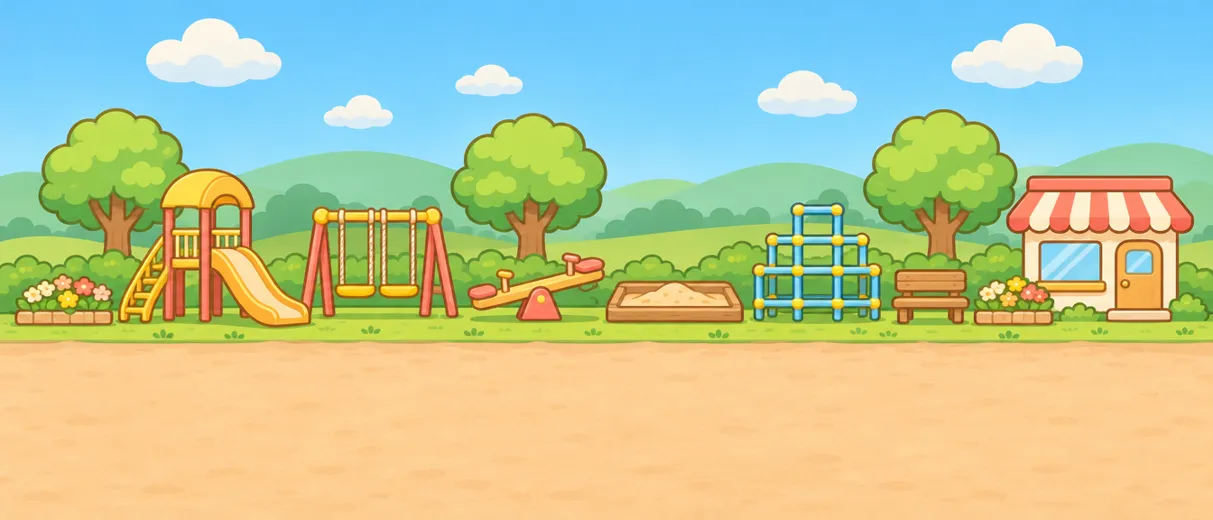
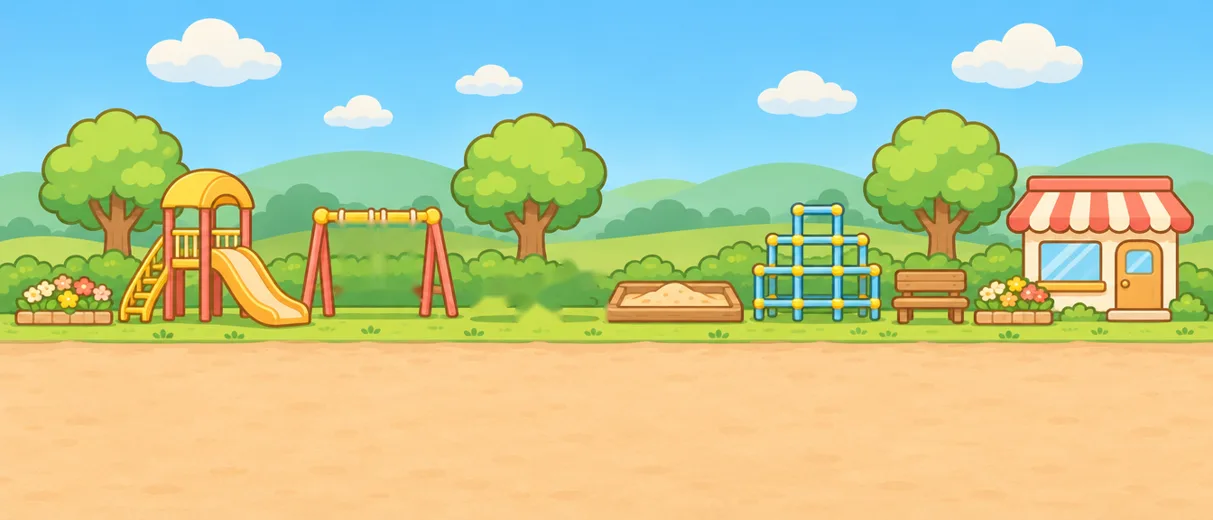
친목회: 화살표 이동·때리기·움직이는 그네와 시소·쫓아와 때리는 동물·겹치지 않는 동선·받은 것 바로 착용 / 마작: 속도 비례 가산점과 오답 감점
- ◀ ▶ 로 걷고 화면이 따라옴, 👊 로 앞의 동물을 때리면 친밀도 -6
- 그네·시소를 배경 위에 따로 그려 타는 동물과 함께 움직임, 놀이기구로 갈 때 높이·크기를 부드럽게 바꿈
- 사이 나쁜(-30 이하) 동물이 7초 동안 쫓아와 때리고 맞을 때마다 3~6코인이 나감
- 동물마다 줄을 나누고 앞이 막히면 멈춰서 동선이 겹치지 않게 함
- 받거나 산 액세서리·옷은 바로 착용되고 가방에서 갈아입을 수 있음
- 마작: 남은 시간에 비례해 최대 +10점, 틀린 짝은 -3점

Claude-Session: https://claude.ai/code/session_015t7mwg1NEPVKJN39Z7Zz4S

Changed region(s): [[0.2745, 0.4, 0.5185, 0.6462]]

diff --git a/js/social.js b/js/social.js
@@ -1,5 +1,5 @@
 // 동물 친목회 — 놀이터에서 동물 30마리와 말하고, 선물하고, 거래한다. 친밀도와 기억은 사람마다 따로다
-import { h, toast, modal, gameFx } from './ui.js';
+import { h, toast, modal, gameFx, holdBtn } from './ui.js';
 import { capy } from './capy.js';
 import { ANIMALS, animalSvg } from './animals.js';
 import { TOPS, BOTTOMS, HATS, nameOf } from './clothes.js';
@@ -63,49 +63,115 @@ async function askAI(room, body) {
 }
 
 export function mount(el, ctx) {
-  let alive = true, mine = {}, theirs = {}, bag = {}, scroller, meEl, lastX = 0, walkT = 0;
+  let alive = true, mine = {}, theirs = {}, bag = {}, scroller, meEl, mePop;
   const pid = () => ctx.partnerId, A = i => (mine[i] && mine[i].a) || 0;
-  const H = Math.round(Math.min(innerHeight * 0.62, 470)), TILE = Math.round(H * 1213 / 520), TILES = 3, WIDTH = TILE * TILES;
-  // 놀이기구 자리: [종류, 그림 속 가로 위치(0~1), 바닥에서 높이(0~1)]
-  const SPOT_DEFS = [['slide', 0.243, 0.385], ['swing', 0.292, 0.4], ['swing', 0.327, 0.4], ['seeL', 0.405, 0.42], ['seeR', 0.478, 0.46], ['sand', 0.555, 0.41], ['gym', 0.675, 0.4], ['bench', 0.768, 0.435]];
-  const spots = []; for (let k = 0; k < TILES; k++) SPOT_DEFS.forEach(([type, fx, fb]) => spots.push({ type, x: (k + (k % 2 ? 1 - fx : fx)) * TILE, b: fb, dir: k % 2 ? -1 : 1, by: -1 }));
+  const H = Math.round(Math.min(innerHeight * 0.52, 470)), TILE = Math.round(H * 1213 / 520), TILES = 3, WIDTH = TILE * TILES, IW = 1344, IH = 576;
+  // 놀이기구 자리: [종류, 그림 속 가로 위치(0~1), 바닥에서 높이(0~1), 그네 번호]
+  const SPOT_DEFS = [['slide', 0.243, 0.385], ['swing', 0.2943, 0.43, 0], ['swing', 0.3286, 0.43, 1], ['seeL', 0.3964, 0.45], ['seeR', 0.4947, 0.45], ['sand', 0.555, 0.41], ['gym', 0.675, 0.4], ['bench', 0.768, 0.435]];
+  const SEE_X = 598.8 / IW, ROPE = (323 - 243) / IH * H;
+  const LANES = [[0.07, 1], [0.13, 0.94], [0.19, 0.88], [0.25, 0.82]], RIDE_S = 0.62, ME_SP = 150, CHASE_SP = 118;
+  const tiles = [], spots = [];
   const moodOf = v => (v <= -30 ? 'mad' : v < 0 ? 'angry' : '');
-  let actors = [], held = -1, raf = 0, lastT = 0;
+  let actors = [], held = -1, raf = 0, lastT = 0, punchAt = 0;
+  const me = { x: 200, f: 1 }, keys = new Set();
+  // 움직이는 놀이기구(그네 두 개, 시소)를 배경 위에 그린다
+  const EQ = `<svg class="so-eq" viewBox="0 0 ${IW} ${IH}" preserveAspectRatio="none">${[395.5, 441.6].map(x => `<g class="eq-sw"><path d="M${x - 16} 243V319M${x + 16} 243V319" stroke="#A8743C" stroke-width="5.5" stroke-linecap="round"/><path d="M${x - 16} 243V319M${x + 16} 243V319" stroke="#F3E3C3" stroke-width="2.6" stroke-dasharray="3 3"/><rect x="${x - 23}" y="316" width="46" height="13" rx="6.5" fill="#FFD21F" stroke="#B5651D" stroke-width="2.2"/></g>`).join('')}
+    <g class="eq-see"><rect x="523" y="315" width="152" height="11" rx="5.5" fill="#F8C24A" stroke="#B5651D" stroke-width="2.2"/><rect x="520" y="308" width="34" height="11" rx="5.5" fill="#F47C72" stroke="#B5473C" stroke-width="2"/><rect x="644" y="308" width="34" height="11" rx="5.5" fill="#F47C72" stroke="#B5473C" stroke-width="2"/><path d="M560 315V298M638 315V298" stroke="#EFC27A" stroke-width="5" stroke-linecap="round"/><rect x="551" y="293" width="18" height="8" rx="4" fill="#FFD21F" stroke="#B5651D" stroke-width="1.8"/><rect x="629" y="293" width="18" height="8" rx="4" fill="#F47C72" stroke="#B5473C" stroke-width="1.8"/></g>
+    <path d="M573 357 L594 324 q5 -6 10 0 L625 357z" fill="#F0625A" stroke="#B5473C" stroke-width="2.4" stroke-linejoin="round"/><circle cx="599" cy="339" r="4.5" fill="#FFD21F"/></svg>`;
   const setRel = (i, patch) => { mine = { ...mine, [i]: { ...(mine[i] || {}), ...patch } }; return ctx.store.update(`social/${ctx.uid}/${i}`, patch).catch(() => {}); };
   const pinOf = u => (ctx.members[u] || {}).pin;
+  // 받은 액세서리 달기, 산 옷 입기(다시 누르면 벗는다). 내 카피바라에 바로 보인다
+  const SLOT = { t: 'top', b: 'bottom', h: 'hat' };
+  async function wearPin(i) { await ctx.store.update('members/' + ctx.uid, { pin: i }).catch(() => {}); ctx.members[ctx.uid] = { ...(ctx.members[ctx.uid] || {}), pin: i }; scores(); }
+  const wearing = id => (ctx.dress[ctx.uid] || {})[SLOT[id[0]]] === id;
+  async function wearCloth(id, on = true) { const d = ctx.dress[ctx.uid] || {}, nx = { top: d.top || '', bottom: d.bottom || '', hat: d.hat || '', by: ctx.uid, ts: ctx.store.now() }; nx[SLOT[id[0]]] = on ? id : '';
+    ctx.dress[ctx.uid] = nx; await ctx.store.set('dress/' + ctx.uid, nx).catch(() => {}); scores(); }
 
   function scene() {
     const top = h('div', { class: 'so-top' }, h('span', { class: 'coin-chip', 'data-coins': 1 }, won(ctx.coins())), h('span', { class: 'so-sp' }),
       h('button', { class: 'btn sm', onClick: openBag }, '🎒 가방'), h('button', { class: 'btn sm', onClick: openShop }, '🏪 카피수퍼'));
     scroller = h('div', { class: 'so-scroll' });
-    const world = h('div', { class: 'so-world', style: { width: WIDTH + 'px', height: H + 'px', '--sx': Math.round(-0.05 * TILE) + 'px', '--sy': Math.round(-0.115 * H) + 'px', '--gy': Math.round(-0.13 * H) + 'px', '--pv': Math.round(-0.07 * H) + 'px' } },
-      ...Array.from({ length: TILES }, (_, k) => h('i', { class: 'so-bg' + (k % 2 ? ' flip' : ''), style: { left: k * TILE + 'px', width: TILE + 1 + 'px' } })));
-    actors = ANIMALS.map((a, i) => { const x = 60 + (i + 0.5) * (WIDTH - 120) / ANIMALS.length;
-      const e = h('button', { class: 'so-an' + (i % 2 ? ' back' : ''), 'data-i': i, style: { left: x + 'px' }, onClick: () => openAnimal(i) }, h('span', { class: 'so-score' }), h('span', { class: 'so-hearts' }), h('span', { class: 'so-body', html: animalSvg(i, true) }), h('small', null, a.name));
-      world.append(e); return { e, x, st: 'idle', until: performance.now() + 400 + Math.random() * 3500, tx: x, spot: null, sp: 24 + Math.random() * 16 }; });
-    meEl = h('div', { class: 'so-me', html: capy(ctx.capyOf(ctx.uid, { face: 'happy' })) }); world.append(meEl);
+    const world = h('div', { class: 'so-world', style: { width: WIDTH + 'px', height: H + 'px', '--sx': Math.round(-0.05 * TILE) + 'px', '--sy': Math.round(-0.115 * H) + 'px', '--gy': Math.round(-0.13 * H) + 'px' } });
+    for (let k = 0; k < TILES; k++) { const flip = k % 2 === 1, bg = h('i', { class: 'so-bg' + (flip ? ' flip' : ''), style: { left: k * TILE + 'px', width: TILE + 1 + 'px' }, html: EQ }); world.append(bg);
+      const fx = f => (k + (flip ? 1 - f : f)) * TILE, t = { dir: flip ? -1 : 1, sw: [...bg.querySelectorAll('.eq-sw')].map((g, n) => ({ g, cx: [395.5, 441.6][n], a: 3, cur: 0, ph: n * 1.4 + k, on: 0 })), see: { g: bg.querySelector('.eq-see'), cur: -11, x: fx(SEE_X), on: 0 } };
+      tiles.push(t); SPOT_DEFS.forEach(([type, f, b, n]) => spots.push({ type, x: fx(f), b, dir: t.dir, by: -1, eq: type === 'swing' ? t.sw[n] : type[0] === 's' && type[1] === 'e' ? t.see : null, t })); }
+    actors = ANIMALS.map((a, i) => { const lane = i % LANES.length, x = 90 + (i + 0.5) * (WIDTH - 180) / ANIMALS.length;
+      const e = h('button', { class: 'so-an', 'data-i': i, style: { left: x + 'px', zIndex: 10 - lane }, onClick: () => openAnimal(i) }, h('span', { class: 'so-score' }), h('span', { class: 'so-hearts' }), h('span', { class: 'so-body', html: animalSvg(i, true) }), h('small', null, a.name));
+      world.append(e); return { e, body: e.querySelector('.so-body'), x, lane, y: LANES[lane][0], s: LANES[lane][1], st: 'idle', until: performance.now() + 400 + Math.random() * 3500, tx: x, spot: null, sp: 24 + Math.random() * 16, cool: 0, nextHit: 0, wait: 0 }; });
+    meEl = h('div', { class: 'so-me', html: capy(ctx.capyOf(ctx.uid, { face: 'happy' })) }); mePop = h('div', { class: 'so-mepop' }); world.append(meEl, mePop);
     scroller.append(world);
-    scroller.addEventListener('scroll', () => { const x = scroller.scrollLeft + scroller.clientWidth / 2; meEl.style.left = x + 'px'; meEl.classList.toggle('left', x < lastX); meEl.classList.add('walk'); lastX = x; clearTimeout(walkT); walkT = setTimeout(() => meEl.classList.remove('walk'), 160); }, { passive: true });
-    el.replaceChildren(top, scroller, h('p', { class: 'dim center' }, '옆으로 밀어서 놀이터를 돌아다녀요. 돌아다니는 동물을 누르면 멈춰서 말을 걸 수 있어요.'));
-    requestAnimationFrame(() => { meEl.style.left = scroller.clientWidth / 2 + 'px'; }); scores(); lastT = performance.now(); raf = requestAnimationFrame(step);
+    const pad = h('div', { class: 'so-pad' }, ...[['L', '◀'], ['R', '▶']].map(([k, t]) => { const b = h('button', { class: 'dp so-dp', 'aria-label': k }, t); holdBtn(b, () => keys.add(k), () => keys.delete(k)); return b; }),
+      h('span', { class: 'so-sp' }), h('button', { class: 'dp so-dp so-hit', onClick: punch }, '👊', h('small', null, '때리기')));
+    el.replaceChildren(top, scroller, pad, h('p', { class: 'dim center so-hint' }, '◀ ▶ 로 걸어가요. 동물을 누르면 멈춰서 말을 걸 수 있어요. 사이가 나쁜 동물 근처는 조심!'));
+    scores(); lastT = performance.now(); raf = requestAnimationFrame(step);
+  }
+  const KEY = { ArrowLeft: 'L', ArrowRight: 'R', a: 'L', d: 'R' };
+  const kd = e => { if (document.querySelector('.modal-wrap')) return; if (KEY[e.key]) { keys.add(KEY[e.key]); e.preventDefault(); } else if (e.key === ' ' && !e.repeat) { e.preventDefault(); punch(); } };
+  const ku = e => { if (KEY[e.key]) keys.delete(KEY[e.key]); };
+  window.addEventListener('keydown', kd); window.addEventListener('keyup', ku);
+  const pop = (parent, text, cls = '') => { const f = h('em', { class: 'so-pop ' + cls }, text); parent.append(f); setTimeout(() => f.remove(), 1000); };
+
+  // 때리기: 앞에 있는 가까운 동물을 친다. 맞은 동물은 밀려나고 친밀도가 떨어지며, 그 일을 기억한다
+  function punch() {
+    const now = performance.now(); if (now - punchAt < 600 || document.querySelector('.modal-wrap')) return; punchAt = now;
+    meEl.classList.remove('punch'); void meEl.offsetWidth; meEl.classList.add('punch'); sfx('swing');
+    let best = -1, bd = 92; actors.forEach((o, i) => { const dx = o.x - me.x, d = Math.abs(dx) + (dx * me.f < 0 ? 20 : 0); if (d < bd) { bd = d; best = i; } });
+    if (best < 0) return; const o = actors[best], dir = o.x >= me.x ? 1 : -1; me.f = dir;
+    sfx('hit'); pop(o.e, '퍽!'); leave(o); o.st = 'stun'; o.until = now + 900; o.kb = dir * 46; o.e.classList.remove('walk'); o.e.classList.add('ouch'); setTimeout(() => o.e.classList.remove('ouch'), 500);
+    const rel = mine[best] || {}, mem = Array.isArray(rel.mem) ? rel.mem : Object.values(rel.mem || {}), v = Math.max(-100, A(best) - 6);
+    setRel(best, { a: v, mem: [...mem.slice(-5), { s: '(말없이 때렸다)', r: '아야! 왜 때려!', d: -6, t: ctx.store.now() }] }); o.cool = 0; scores();
+    setTimeout(() => alive && pop(o.e, v <= ROB_AT ? '가만 안 둬!' : '아야!', 'say'), 250);
+  }
+  // 사이가 나쁜 동물에게 맞으면 돈이 조금 나간다
+  function gotHit(o, now) {
+    o.nextHit = now + 900; sfx('hit'); pop(mePop, '퍽!'); meEl.classList.remove('ouch'); void meEl.offsetWidth; meEl.classList.add('ouch');
+    const n = Math.min(ctx.coins(), 3 + Math.floor(Math.random() * 4)); if (n <= 0) return;
+    ctx.store.tx('money/' + ctx.uid, c => ({ ...(c || {}), c: Math.max(0, ((c && c.c) || 0) - n) })).catch(() => {}); setTimeout(() => alive && pop(mePop, `-${n}🪙`, 'lose'), 200);
   }
   // 동물들이 걸어 다니다가 가까운 놀이기구가 비면 가서 탄다. 말을 걸고 있는 동물(held)은 그 자리에 멈춘다
-  function leave(o) { if (!o.spot) return; o.e.className = o.e.className.replace(/ ride r-\w+/g, '').replace(' rev', ''); o.e.style.bottom = ''; o.spot.by = -1; o.spot = null; }
-  function decide(o, i, now) {
+  function leave(o) { if (!o.spot) return; o.e.className = o.e.className.replace(/ ride r-\w+/g, '').replace(' rev', ''); if (o.spot.eq) o.spot.eq.on = Math.max(0, o.spot.eq.on - (o.st === 'ride' ? 1 : 0)); o.body.style.transform = ''; o.spot.by = -1; o.spot = null; }
+  const crowded = (o, x) => actors.some(q => q !== o && q.lane === o.lane && q.st !== 'ride' && (Math.abs(q.x - x) < 64 || Math.abs(q.tx - x) < 64));
+  function decide(o, i) {
     const free = Math.random() < 0.25 ? spots.filter(s => s.by < 0 && Math.abs(s.x - o.x) < 520) : [];
-    if (free.length) { const s = pick(free); s.by = i; o.spot = s; o.tx = s.x; } else o.tx = Math.max(50, Math.min(WIDTH - 50, o.x + (Math.random() * 2 - 1) * 240));
-    o.st = 'walk'; o.e.classList.add('walk'); o.e.classList.toggle('left', o.tx < o.x);
+    if (free.length) { const s = pick(free); s.by = i; o.spot = s; o.tx = s.x; }
+    else { let tx = o.x; for (let n = 0; n < 8; n++) { tx = Math.max(60, Math.min(WIDTH - 60, o.x + (Math.random() * 2 - 1) * 260)); if (!crowded(o, tx)) break; tx = o.x; } o.tx = tx; if (tx === o.x) { o.until = performance.now() + 800; return; } }
+    o.st = 'walk'; o.wait = 0; o.e.classList.add('walk'); o.e.classList.toggle('left', o.tx < o.x);
   }
   function step(now) {
-    if (!alive) return; const dt = Math.min(0.1, (now - lastT) / 1000); lastT = now;
-    actors.forEach((o, i) => { if (i === held) return;
-      if (o.st === 'walk') { const d = o.tx - o.x, mv = o.sp * dt;
-        if (Math.abs(d) <= mv) { o.x = o.tx; o.e.classList.remove('walk', 'left');
-          if (o.spot) { o.st = 'ride'; o.until = now + 9000 + Math.random() * 7000; o.e.className += ' ride r-' + o.spot.type + (o.spot.dir < 0 ? ' rev' : ''); o.e.style.bottom = o.spot.b * 100 + '%'; }
-          else { o.st = 'idle'; o.until = now + 900 + Math.random() * 3600; } }
-        else o.x += Math.sign(d) * mv;
-        o.e.style.left = o.x + 'px'; }
-      else if (now > o.until) { if (o.st === 'ride') { leave(o); o.st = 'idle'; o.until = now + 700; } else decide(o, i, now); } });
+    if (!alive) return; const dt = Math.min(0.1, (now - lastT) / 1000), t = now / 1000, paused = !!document.querySelector('.modal-wrap'); lastT = now;
+    // 나: 화살표로 걷고, 화면이 따라온다
+    const mv = paused ? 0 : (keys.has('R') ? 1 : 0) - (keys.has('L') ? 1 : 0);
+    if (mv) { me.f = mv; me.x = Math.max(40, Math.min(WIDTH - 40, me.x + mv * ME_SP * dt)); }
+    meEl.classList.toggle('walk', !!mv); meEl.classList.toggle('left', me.f < 0); meEl.style.left = mePop.style.left = me.x + 'px';
+    scroller.scrollLeft = Math.max(0, Math.min(WIDTH - scroller.clientWidth, me.x - scroller.clientWidth / 2));
+    // 놀이기구: 누가 타면 크게, 아니면 살짝 흔들린다
+    tiles.forEach(T => { T.sw.forEach(w => { w.a += ((w.on ? 17 : 3) - w.a) * Math.min(1, dt * 2); w.cur = w.a * Math.sin(t * 2.3 + w.ph); w.g.setAttribute('transform', `rotate(${w.cur.toFixed(2)} ${w.cx} 243)`); });
+      const S = T.see; S.cur += ((S.on ? 11 * Math.sin(t * 2.6) : -11) - S.cur) * Math.min(1, dt * 6); S.g.setAttribute('transform', `rotate(${S.cur.toFixed(2)} 598.8 320)`); });
+    actors.forEach((o, i) => {
+      const lane = LANES[o.lane]; let ty = lane[0], ts = lane[1];
+      if (i === held) { /* 붙잡혀서 얘기하는 중 */ }
+      else if (o.st === 'stun') { if (o.kb) { const k = o.kb * Math.min(1, dt * 8); o.x = Math.max(40, Math.min(WIDTH - 40, o.x + k)); o.kb -= k; } if (now > o.until) { o.st = 'idle'; o.until = now + 300; o.kb = 0; } }
+      else if (o.st === 'chase') { ty = 0.02; ts = 1; if (paused) o.until += dt * 1000; const d = me.x - o.x;
+        if (Math.abs(d) > 34) { o.x += Math.sign(d) * CHASE_SP * dt; o.e.classList.toggle('left', d < 0); } else if (now > o.nextHit && !paused) gotHit(o, now);
+        if (now > o.until) { o.st = 'idle'; o.until = now + 600; o.cool = now + 15000; o.e.classList.remove('walk', 'chase'); } }
+      else {
+        if (!paused && A(i) <= ROB_AT && now > o.cool && Math.abs(me.x - o.x) < 170) { leave(o); o.st = 'chase'; o.until = now + 7000; o.nextHit = now + 300; o.e.classList.add('walk', 'chase'); pop(o.e, '거기 서!', 'say'); }
+        else if (o.st === 'walk') { const d = o.tx - o.x, step1 = o.sp * dt, dir = Math.sign(d);
+          const blocked = o.wait < 1.5 && actors.some(q => q !== o && q.lane === o.lane && q.st !== 'ride' && (q.x - o.x) * dir > 0 && (q.x - o.x) * dir < 58 && !(o.spot && Math.abs(d) < 110));
+          if (blocked) { o.wait += dt; if (!o.spot && o.wait > 0.5) { o.st = 'idle'; o.until = now + 500 + Math.random() * 1200; o.e.classList.remove('walk'); } }
+          else if (Math.abs(d) <= step1) { o.x = o.tx; o.e.classList.remove('walk', 'left');
+            if (o.spot) { o.st = 'ride'; o.until = now + 9000 + Math.random() * 7000; if (o.spot.eq) o.spot.eq.on++; o.e.className += ' ride r-' + o.spot.type + (o.spot.dir < 0 ? ' rev' : ''); }
+            else { o.st = 'idle'; o.until = now + 900 + Math.random() * 3600; } }
+          else o.x += dir * step1;
+          if (o.spot) { const k = Math.max(0, 1 - Math.abs(o.tx - o.x) / 110); ty += (o.spot.b - ty) * k; ts += (RIDE_S - ts) * k; } }
+        else if (o.st === 'ride') { ty = o.spot.b; ts = RIDE_S; const q = o.spot.eq;
+          if (q && o.spot.type === 'swing') { const ph = q.cur * o.spot.dir * Math.PI / 180; o.body.style.transform = `translate(${(-ROPE * Math.sin(ph) / ts).toFixed(1)}px, ${(ROPE * (Math.cos(ph) - 1) / ts).toFixed(1)}px) rotate(${(q.cur * o.spot.dir).toFixed(1)}deg)`; }
+          else if (q) o.body.style.transform = `translateY(${((o.x - q.x) * Math.sin(q.cur * o.spot.dir * Math.PI / 180) / ts).toFixed(1)}px)`;
+          if (now > o.until) { leave(o); o.st = 'idle'; o.until = now + 500; } }
+        else if (now > o.until) decide(o, i);
+      }
+      const k = Math.min(1, dt * 5); o.y += (ty - o.y) * k; o.s += (ts - o.s) * k;
+      o.e.style.left = o.x + 'px'; o.e.style.bottom = (o.y * 100).toFixed(2) + '%'; o.e.style.transform = `scale(${o.s.toFixed(3)})`; });
     raf = requestAnimationFrame(step);
   }
   // 동물 머리 위 친밀도: 내 점수(크게)와 상대 점수(작게). 사이가 나쁘면 찌푸리고, 좋으면 하트가 떠오른다
@@ -131,9 +197,10 @@ export function mount(el, ctx) {
       const v = A(i), rel = mine[i] || {};
       if (d) { sfx(d > 0 ? 'coin' : 'bad'); const f = h('em', { class: 'so-float ' + (d > 0 ? 'up' : 'down') }, (d > 0 ? '+' : '') + d); meter.append(f); setTimeout(() => f.remove(), 1200); }
       if (v >= PIN_AT && !rel.got) { await setRel(i, { got: true }); await ctx.store.update('bag/' + ctx.uid + '/pins', { [i]: true }).catch(() => {}); bag = { ...bag, pins: { ...(bag.pins || {}), [i]: true } };
-        setTimeout(() => { gameFx('win', `${a.name}의 ${p.pin} 받음`); say(`우리 이제 친한 친구지? 내 상징 ${p.pin} 줄게. 가방에서 달아 봐!`, 'gift'); }, 500); }
+        await wearPin(i);
+        setTimeout(() => { gameFx('win', `${a.name}의 ${p.pin} 받음`); say(`우리 이제 친한 친구지? 내 상징 ${p.pin} 줄게. 내가 달아 줬어! (가방에서 바꿀 수 있어)`, 'gift'); }, 500); }
       else if (v <= ROB_AT && d < 0 && Math.random() < 0.4) { // 사이가 나쁘면 준 액세서리를 뺏거나 돈을 뜯는다
-        if ((bag.pins || {})[i]) { await ctx.store.update('bag/' + ctx.uid + '/pins', { [i]: null }).catch(() => {}); bag = { ...bag, pins: { ...(bag.pins || {}), [i]: null } }; if (pinOf(ctx.uid) === i) ctx.store.update('members/' + ctx.uid, { pin: null }).catch(() => {}); await setRel(i, { got: null }); setTimeout(() => { sfx('hit'); say(`내가 준 ${p.pin} 도로 내놔! 너한텐 아까워!`, 'angry'); }, 600); }
+        if ((bag.pins || {})[i]) { await ctx.store.update('bag/' + ctx.uid + '/pins', { [i]: null }).catch(() => {}); bag = { ...bag, pins: { ...(bag.pins || {}), [i]: null } }; if (pinOf(ctx.uid) === i) await wearPin(null); await setRel(i, { got: null }); setTimeout(() => { sfx('hit'); say(`내가 준 ${p.pin} 도로 내놔! 너한텐 아까워!`, 'angry'); }, 600); }
         else { const take = Math.min(ctx.coins(), 20 + Math.floor(Math.random() * 41)); if (take > 0) { await ctx.spend(take); setTimeout(() => { sfx('hit'); say(`까불지 마! 가진 돈 ${take}🪙 내놔!`, 'angry'); toast(`${a.name}에게 ${take} 🪙 뜯겼어요`, 2000); }, 600); } } }
       drawMeter();
     }
@@ -161,8 +228,8 @@ export function mount(el, ctx) {
       if (v < 0) return say('너한텐 아무것도 안 팔아. 저리 가!', 'angry');
       const row = (ic, nm, sub, price, owned, fn) => h('button', { class: 'so-row', disabled: owned, onClick: fn }, h('span', null, ic), h('b', null, nm), h('small', null, owned ? '이미 갖고 있어요' : `${won(price)} · ${sub}`));
       const cl = modal({ title: `🤝 ${a.name}와 거래`, body: h('div', { class: 'so-list' },
-        row(p.pin, `${a.name}의 상징 액세서리`, v >= 10 ? '친해지면(50점) 그냥 줘요' : '아는 사이(10점)부터 팔아요', 500, hasPin, async () => { if (v < 10) return toast('아직 그 정도로 친하지 않대요'); if (!(await ctx.spend(500))) return; await ctx.store.update('bag/' + ctx.uid + '/pins', { [i]: true }).catch(() => {}); bag = { ...bag, pins: { ...(bag.pins || {}), [i]: true } }; await setRel(i, { got: true }); cl(); say(`자, ${p.pin} 여기. 잘 달고 다녀!`, 'glad'); }),
-        row('👕', `${a.name}의 옷: ${ware.name}`, disc < 1 ? `친구 할인 ${Math.round((1 - disc) * 100)}%` : '친해지면 깎아 줘요', wp, ctx.owns(ware.id), async () => { if (!(await ctx.spend(wp))) return; await ctx.store.set(`owned/${ctx.uid}/${ware.id}`, true).catch(() => {}); ctx.owned[ctx.uid] = { ...(ctx.owned[ctx.uid] || {}), [ware.id]: true }; cl(); say(`${ware.name}, 너한테 잘 어울릴 거야. 옷놀이에서 입어 봐!`, 'glad'); })), actions: [{ label: '닫기' }] });
+        row(p.pin, `${a.name}의 상징 액세서리`, v >= 10 ? '친해지면(50점) 그냥 줘요' : '아는 사이(10점)부터 팔아요', 500, hasPin, async () => { if (v < 10) return toast('아직 그 정도로 친하지 않대요'); if (!(await ctx.spend(500))) return; await ctx.store.update('bag/' + ctx.uid + '/pins', { [i]: true }).catch(() => {}); bag = { ...bag, pins: { ...(bag.pins || {}), [i]: true } }; await setRel(i, { got: true }); await wearPin(i); cl(); say(`자, ${p.pin} 여기. 내가 달아 줬어, 잘 달고 다녀!`, 'glad'); }),
+        row('👕', `${a.name}의 옷: ${ware.name}`, disc < 1 ? `친구 할인 ${Math.round((1 - disc) * 100)}%` : '친해지면 깎아 줘요', wp, ctx.owns(ware.id), async () => { if (!(await ctx.spend(wp))) return; await ctx.store.set(`owned/${ctx.uid}/${ware.id}`, true).catch(() => {}); ctx.owned[ctx.uid] = { ...(ctx.owned[ctx.uid] || {}), [ware.id]: true }; await wearCloth(ware.id); cl(); say(`${ware.name}, 입혀 줬어. 잘 어울린다! (가방이나 옷놀이에서 갈아입을 수 있어)`, 'glad'); })), actions: [{ label: '닫기' }] });
     }
     const memBtn = () => { const mem = Array.isArray((mine[i] || {}).mem) ? mine[i].mem : Object.values((mine[i] || {}).mem || {}); modal({ title: `📜 ${a.name}가 기억하는 말`, body: mem.length ? h('div', { class: 'so-mem' }, mem.slice().reverse().map(m => h('p', null, h('b', null, `나: ${m.s}`), h('span', null, `${a.name}: ${m.r}`), h('em', { class: m.d > 0 ? 'up' : m.d < 0 ? 'down' : '' }, (m.d > 0 ? '+' : '') + m.d)))) : h('p', { class: 'center' }, '아직 나눈 말이 없어요.'), actions: [{ label: '닫기', primary: true }] }); };
     input.addEventListener('keydown', e => { if (e.key === 'Enter') talk(input.value); });
@@ -181,13 +248,16 @@ export function mount(el, ctx) {
     draw(); modal({ title: '🏪 카피수퍼', body, actions: [{ label: '닫기', primary: true }] });
   }
   function openBag() {
-    const pins = Object.keys(bag.pins || {}).filter(k => bag.pins[k]).map(Number), worn = pinOf(ctx.uid), body = h('div', { class: 'so-list' });
-    const wear = async i => { await ctx.store.update('members/' + ctx.uid, { pin: i }).catch(() => {}); ctx.members[ctx.uid] = { ...(ctx.members[ctx.uid] || {}), pin: i }; toast(i == null ? '액세서리를 뺐어요' : `${ANIMALS[i].name}의 상징 ${PERSONA[i].pin} 달았어요`); cl(); scores(); };
-    body.replaceChildren(h('p', { class: 'center' }, Object.entries(GIFTS).map(([k, [ic, nm]]) => `${ic} ${nm} ${bag[k] || 0}개`).join(' · ')),
-      h('b', null, `동물에게 받은 액세서리 ${pins.length} / ${ANIMALS.length}`),
-      pins.length ? h('div', { class: 'so-pins' }, pins.map(i => h('button', { class: 'so-pin' + (worn === i ? ' on' : ''), onClick: () => wear(worn === i ? null : i) }, h('span', null, PERSONA[i].pin), h('small', null, ANIMALS[i].name)))) : h('p', { class: 'dim center' }, `동물과 ${PIN_AT}점까지 친해지면 그 동물의 상징을 선물로 받아요.`),
-      pins.length > 0 && h('p', { class: 'dim center' }, '눌러서 달거나 빼요. 달면 내 카피바라 머리 옆에 보여요.'));
-    const cl = modal({ title: '🎒 가방', body, actions: [{ label: '닫기', primary: true }] });
+    const body = h('div', { class: 'so-list' }); let cl;
+    const draw = () => { const pins = Object.keys(bag.pins || {}).filter(k => bag.pins[k]).map(Number), worn = pinOf(ctx.uid), wares = ANIMALS.map((_, i) => i).filter(i => ctx.owns(wareOf(i).id) && priceOf(wareOf(i).id) > 0);
+      body.replaceChildren(h('div', { class: 'so-bagme', html: capy(ctx.capyOf(ctx.uid, { face: 'happy' })) }),
+        h('p', { class: 'center' }, Object.entries(GIFTS).map(([k, [ic, nm]]) => `${ic} ${nm} ${bag[k] || 0}개`).join(' · ')),
+        h('b', null, `동물에게 받은 액세서리 ${pins.length} / ${ANIMALS.length}`),
+        pins.length ? h('div', { class: 'so-pins' }, pins.map(i => h('button', { class: 'so-pin' + (worn === i ? ' on' : ''), onClick: async () => { await wearPin(worn === i ? null : i); draw(); } }, h('span', null, PERSONA[i].pin), h('small', null, worn === i ? '착용 중' : ANIMALS[i].name)))) : h('p', { class: 'dim center' }, `동물과 ${PIN_AT}점까지 친해지면 그 동물의 상징을 선물로 받아요.`),
+        h('b', null, `동물에게 산 옷 ${wares.length}벌`),
+        wares.length ? h('div', { class: 'so-list' }, wares.map(i => { const w = wareOf(i), on = wearing(w.id); return h('button', { class: 'so-row' + (on ? ' on' : ''), onClick: async () => { await wearCloth(w.id, !on); draw(); } }, h('span', null, { t: '👕', b: '👖', h: '🎩' }[w.id[0]]), h('b', null, w.name), h('small', null, `${ANIMALS[i].name}에게 삼 · ${on ? '입는 중 (누르면 벗기)' : '누르면 입기'}`)); })) : h('p', { class: 'dim center' }, '동물과 거래하면 그 동물의 옷을 살 수 있어요.'),
+        h('p', { class: 'dim center' }, '눌러서 착용하거나 빼요. 다른 화면의 내 카피바라에도 그대로 보여요.')); };
+    draw(); cl = modal({ title: '🎒 가방', body, actions: [{ label: '닫기', primary: true }] });
   }
 
   const offs = [
@@ -195,5 +265,5 @@ export function mount(el, ctx) {
     ctx.store.on('bag/' + ctx.uid, v => { bag = v || {}; }),
   ];
   scene();
-  return () => { alive = false; cancelAnimationFrame(raf); offs.forEach(f => f()); };
+  return () => { alive = false; cancelAnimationFrame(raf); offs.forEach(f => f()); window.removeEventListener('keydown', kd); window.removeEventListener('keyup', ku); };
 }

diff --git a/js/g-mahjong.js b/js/g-mahjong.js
@@ -61,7 +61,7 @@ export function mount(el, ctx) {
       h('div', { class: 'bg-row' }, chip(mode === 'vs', '⚔ 경쟁', () => { mode = 'vs'; save(); lobby(); }, '둘이 번갈아'), chip(mode === 'cpu', '🤖 컴퓨터랑', () => { mode = 'cpu'; save(); lobby(); }, '컴퓨터와 번갈아')),
       h('label', { class: 'lbl' }, '난이도'),
       h('div', { class: 'bg-row' }, Object.entries(LEVELS).map(([k, v]) => chip(diff === k, v.name, () => { diff = k; save(); lobby(); }, v.sub))),
-      h('p', { class: 'dim bg-note' + (mode === 'vs' && !pid() ? ' warn' : '') }, mode === 'vs' && !pid() ? '상대가 아직 방에 없어요. 컴퓨터랑 하기를 골라 주세요' : '내 차례에 같은 동물 패 두 장을 눌러요. 두 패 사이가 두 번까지만 꺾이는 빈 길로 이어져야 없어져요(판 바깥으로 돌아가도 돼요). 한 쌍에 10점, 3초 안에 찾으면 +5점. 시간 안에 못 찾으면 차례가 넘어가요.'),
+      h('p', { class: 'dim bg-note' + (mode === 'vs' && !pid() ? ' warn' : '') }, mode === 'vs' && !pid() ? '상대가 아직 방에 없어요. 컴퓨터랑 하기를 골라 주세요' : '내 차례에 같은 동물 패 두 장을 눌러요. 두 패 사이가 두 번까지만 꺾이는 빈 길로 이어져야 없어져요(판 바깥으로 돌아가도 돼요). 한 쌍에 10점, 빨리 찾을수록 가산점(남은 시간만큼 최대 +10점). 틀린 짝을 누르면 -3점. 시간 안에 못 찾으면 차례가 넘어가요.'),
       h('button', { class: 'btn primary big', onClick: start }, '시작'),
       b && h('p', { class: 'dim center' }, `내 최고 ${b.s}점`)].filter(Boolean));
   }
@@ -74,7 +74,7 @@ export function mount(el, ctx) {
   // 한 수: who가 a·b를 없앤다(pair가 없으면 차례만 넘긴다). 경쟁은 방에 적고, 컴퓨터 판은 내 폰에서만 바꾼다
   function apply(s, who, pair, quick) {
     const L = LEVELS[s.diff], cells = cellsOf(s), sc = (s.sc || [0, 0]).slice(); let last = { who, at: now() };
-    if (pair) { const path = linkPath(cells, L.cols, L.rows, pair[0], pair[1]); if (!path) return null; sc[who] += 10 + (quick ? 5 : 0); last = { ...last, a: pair[0], b: pair[1], k: cells[pair[0]], path: path.flat(), pts: 10 + (quick ? 5 : 0) }; cells[pair[0]] = -1; cells[pair[1]] = -1;
+    if (pair) { const path = linkPath(cells, L.cols, L.rows, pair[0], pair[1]); if (!path) return null; const pts = 10 + Math.max(0, Math.min(10, Math.round(+quick || 0))); sc[who] += pts; last = { ...last, a: pair[0], b: pair[1], k: cells[pair[0]], path: path.flat(), pts }; cells[pair[0]] = -1; cells[pair[1]] = -1;
       if (ensureMove(cells, L.cols, L.rows, rng(s.seed + s.n * 97 + 5))) last.mix = true; }
     return { ...s, cells, sc, turn: 1 - who, turnAt: now() + (pair ? 700 : 300), n: (s.n || 0) + 1, last };
   }
@@ -82,11 +82,19 @@ export function mount(el, ctx) {
     if (S.kind === 'cpu') { const nx = apply(S, who, pair, quick); if (!nx) return false; mine = nx; pickS(); onChange(); return true; }
     const id = S.id, n = S.n || 0; ctx.store.tx(PATH, cur => { if (!cur || cur.id !== id || (cur.n || 0) !== n || cur.turn !== who) return; return apply(cur, who, pair, quick) || undefined; }).catch(() => {}); return true;
   }
+  // 빨리 찾을수록 가산점: 남은 시간에 비례해 최대 +10점. 틀린 짝을 누르면 -3점(0점 밑으로는 안 내려간다)
+  const WRONG = 3, speedBonus = s => Math.round(10 * Math.max(0, 1 - (now() - s.turnAt) / (LEVELS[s.diff].sec * 1000)));
+  function miss(who) {
+    const dock = s => { const sc = (s.sc || [0, 0]).slice(); sc[who] = Math.max(0, (sc[who] || 0) - WRONG); return { ...s, sc }; };
+    toast(`틀렸어요 -${WRONG}점`, 700);
+    if (S.kind === 'cpu') { mine = dock(S); pickS(); drawTop && drawTop(); return; }
+    const id = S.id; ctx.store.tx(PATH, cur => (cur && cur.id === id ? dock(cur) : undefined)).catch(() => {});
+  }
   function tapTile(i) {
     if (phase() !== 'play' || !myTurn() || now() < S.turnAt) return; const cells = cellsOf(S), L = LEVELS[S.diff]; if (cells[i] < 0) return;
     if (sel < 0 || sel === i) { sel = sel === i ? -1 : i; sfx('tock'); return drawBoard(); }
-    if (cells[sel] === cells[i] && linkPath(cells, L.cols, L.rows, sel, i)) { const a = sel; sel = -1; move(myI(), [a, i], now() - S.turnAt < 3000); }
-    else { sfx('miss'); const e = box.querySelector(`.mj-t[data-i="${i}"]`); if (e) { e.classList.remove('shake'); void e.offsetWidth; e.classList.add('shake'); } sel = cells[sel] === cells[i] ? -1 : i; setTimeout(drawBoard, 250); }
+    if (cells[sel] === cells[i] && linkPath(cells, L.cols, L.rows, sel, i)) { const a = sel; sel = -1; move(myI(), [a, i], speedBonus(S)); }
+    else { miss(myI()); sfx('miss'); const e = box.querySelector(`.mj-t[data-i="${i}"]`); if (e) { e.classList.remove('shake'); void e.offsetWidth; e.classList.add('shake'); } sel = -1; setTimeout(drawBoard, 250); }
   }
 
   let grid, topEl;
@@ -121,7 +129,7 @@ export function mount(el, ctx) {
   }
   function scheduleCpu() {
     clearTimeout(cpuT); if (!S || S.kind !== 'cpu' || S.turn !== 1 || over(S)) return; const L = LEVELS[S.diff], [p, ms] = L.cpu, id = S.id, n = S.n;
-    cpuT = setTimeout(() => { if (!alive || !S || S.id !== id || S.n !== n) return; const cells = cellsOf(S), mv = Math.random() < p ? anyMove(cells, L.cols, L.rows) : null; if (!mv) toast('🤖 못 찾았어요', 900); move(1, mv, false); }, ms * (0.7 + Math.random() * 0.6) + 800);
+    cpuT = setTimeout(() => { if (!alive || !S || S.id !== id || S.n !== n) return; const cells = cellsOf(S), mv = Math.random() < p ? anyMove(cells, L.cols, L.rows) : null; if (!mv) toast('🤖 못 찾았어요', 900); move(1, mv, mv ? speedBonus(S) : 0); }, ms * (0.7 + Math.random() * 0.6) + 800);
   }
   function tick() {
     if (!alive || phase() !== 'play' || !topEl || !topEl.isConnected) return; const L = LEVELS[S.diff], el2 = (now() - S.turnAt) / 1000, u = topEl.querySelector('.mj-turn u');

diff --git a/css/app.css b/css/app.css
@@ -743,3 +743,33 @@ html.fixed-page,html.fixed-page body{overflow:hidden;height:100%;overscroll-beha
 .so-hearts { position: relative; width: 100%; height: 0; pointer-events: none; }
 .so-hearts i { position: absolute; bottom: 0; margin-left: -7px; font-size: 13px; font-style: normal; opacity: 0; animation: soHeart 2.2s ease-out infinite; }
 @keyframes soHeart { 0% { opacity: 0; transform: translateY(8px) scale(.6); } 25% { opacity: 1; } 100% { opacity: 0; transform: translateY(-26px) scale(1.15); } }
+
+/* 친목회: 화살표 이동·때리기·움직이는 놀이기구 */
+.so-scroll { overflow: hidden; }
+.so-bg .so-eq { position: absolute; inset: 0; width: 100%; height: 100%; }
+.so-an { transform-origin: 50% 100%; transition: none; bottom: 0; }
+.so-an.ride { width: 74px; margin-left: -37px; }
+.so-an.r-swing .so-body, .so-an.r-seeL .so-body, .so-an.r-seeR .so-body { animation: none; transform-origin: 50% 100%; }
+.so-an.chase .so-body { animation-duration: .24s; }
+.so-an.chase .so-score { border-color: #E5484D; background: #FDECEC; }
+.so-an.ouch .so-body, .so-me.ouch svg { animation: soOuch .45s ease-out; }
+.so-me { z-index: 20; transition: none; }
+.so-me.punch svg { animation: soPunch .3s ease-out; }
+.so-mepop { position: absolute; bottom: 96px; width: 0; height: 0; z-index: 30; }
+@keyframes soOuch { 0% { transform: rotate(0); filter: brightness(1.6) saturate(1.4); } 30% { transform: rotate(-14deg) translateY(-6px); } 100% { transform: rotate(0); } }
+@keyframes soPunch { 0% { transform: translateX(0); } 40% { transform: translateX(16px) rotate(8deg); } 100% { transform: translateX(0); } }
+@keyframes soPunchL { 0% { transform: scaleX(-1) translateX(0); } 40% { transform: scaleX(-1) translateX(16px) rotate(8deg); } 100% { transform: scaleX(-1) translateX(0); } }
+.so-pop { position: absolute; left: 50%; top: -8px; transform: translateX(-50%); font-style: normal; font-weight: 900; font-size: 20px; color: #E5484D; -webkit-text-stroke: .6px #fff; white-space: nowrap; pointer-events: none; animation: soPop 1s ease-out forwards; z-index: 30; }
+.so-pop.say { font-size: 12px; color: #5B4636; background: #fff; border: 2px solid #E8DCC8; border-radius: 10px; padding: 1px 7px; -webkit-text-stroke: 0; top: -24px; }
+.so-pop.lose { color: #C98A00; font-size: 15px; top: -26px; }
+@keyframes soPop { 0% { opacity: 0; margin-top: 8px; } 15% { opacity: 1; margin-top: 0; } 75% { opacity: 1; } 100% { opacity: 0; margin-top: -22px; } }
+.so-pad { display: flex; align-items: center; gap: 10px; margin-top: 8px; touch-action: none; }
+.so-pad .so-dp { width: min(24vw, 96px); height: 58px; border-radius: 18px; font-size: 24px; border-width: 3px; box-shadow: 0 4px 0 var(--line); }
+.so-pad .so-dp.held { transform: translateY(3px); box-shadow: none; }
+.so-pad .so-hit { display: flex; flex-direction: column; align-items: center; justify-content: center; line-height: 1; background: #FFE1DA; border-color: #F0A090; box-shadow: 0 4px 0 #F0A090; }
+.so-pad .so-hit small { font: 700 11px/1.2 var(--head); color: #B4432F; }
+.so-pad .so-hit:active { transform: translateY(3px); box-shadow: none; background: #FFC7BA; }
+.so-hint { margin: 6px 0 0; font-size: 12px; }
+
+.so-bagme { width: 96px; margin: 0 auto; } .so-bagme svg { width: 100%; display: block; }
+.so-row.on { border-color: #FF7FA8; background: #FFF0F5; }
